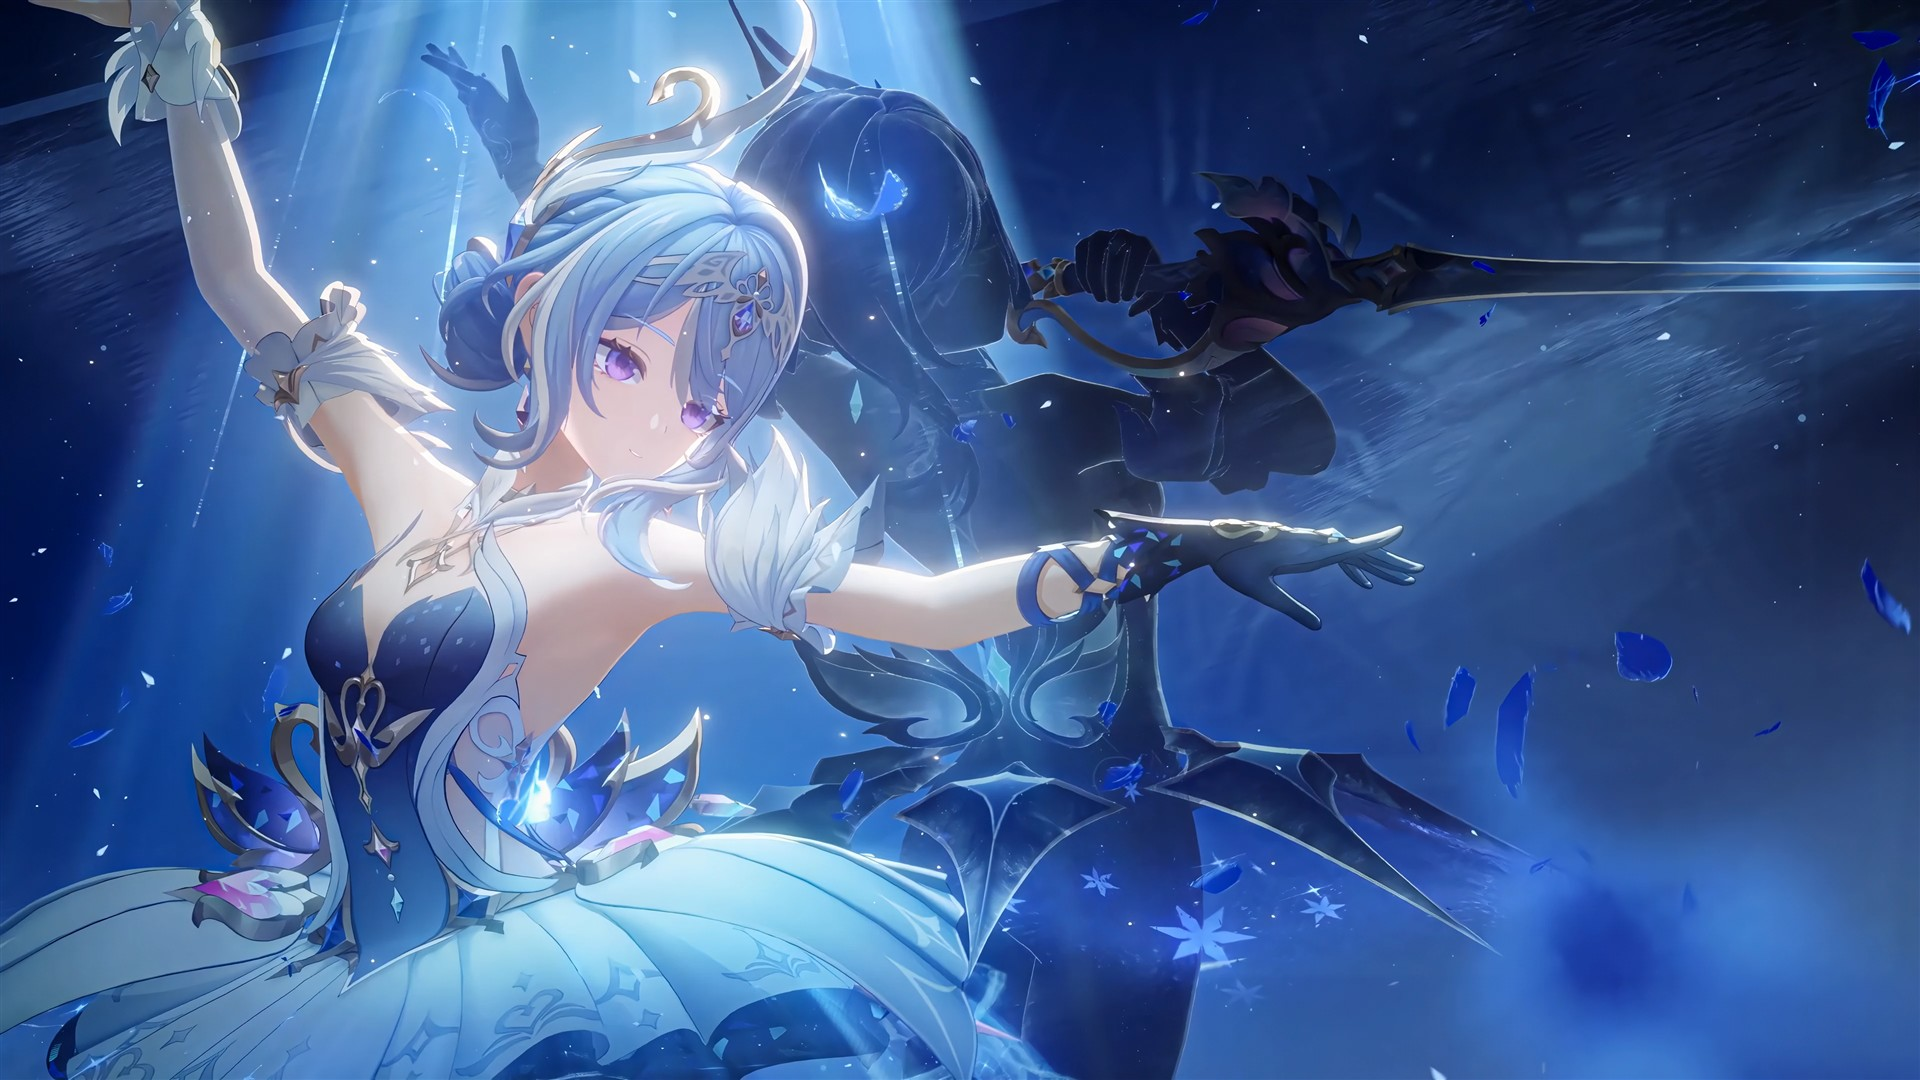
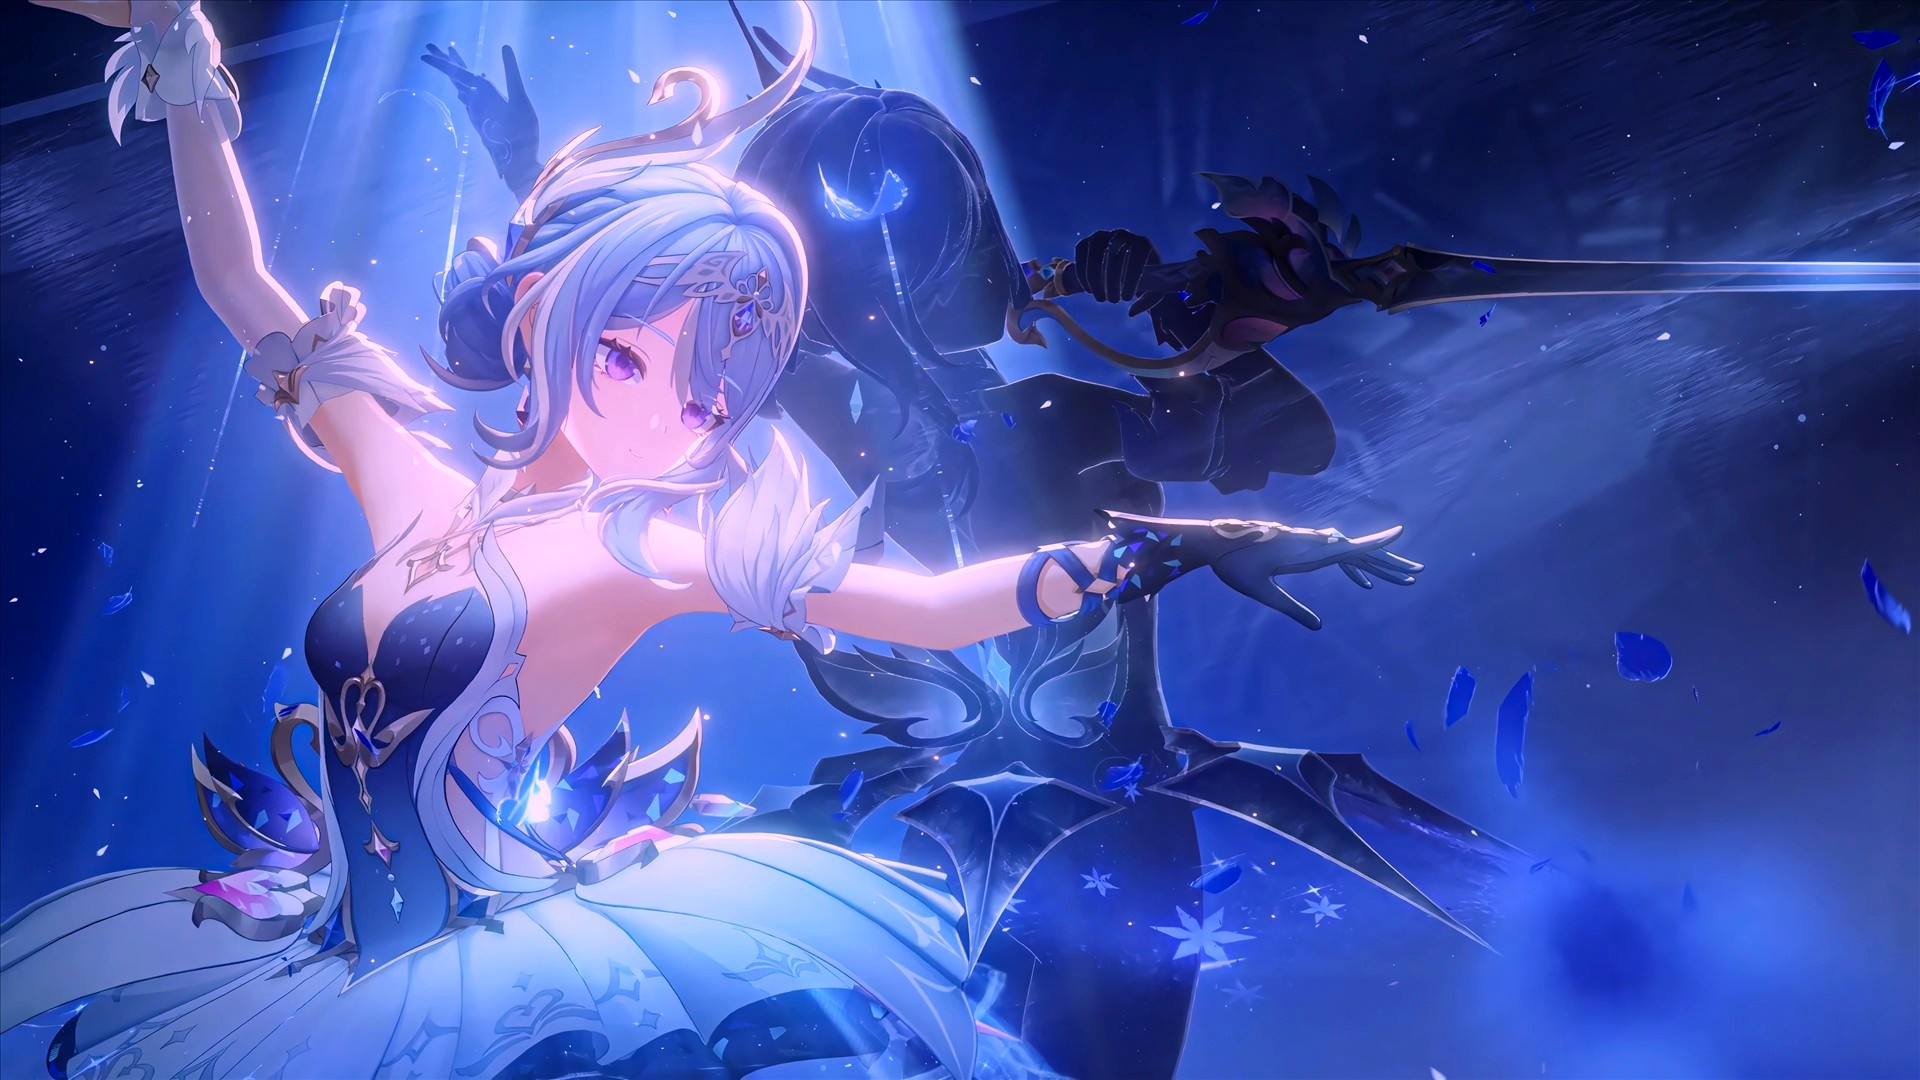
fix: 增强烘焙进图片文件（饱和+对比），移除 CSS filter 消除 README/皮肤色差；图片版本号 v=3 绕过缓存

diff --git a/src/client/index.ts b/src/client/index.ts
@@ -43,8 +43,8 @@ export const inject = ['theme', 'slots']
 
 const SOURCE = '@dsh-external/dsh-odette-skin'
 const ASSET_BASE = location.origin + '/odette-skin'
-/** 图片资源版本号：每次更换图片时递增，绕过客户端/浏览器 HTTP 缓存（v0.1 时代 max-age=86400 的缓存坑） */
-const IMG_REV = '?v=2'
+/** 图片资源版本号：每次更换/处理图片时递增，绕过客户端/浏览器 HTTP 缓存（v0.1 时代 max-age=86400 的缓存坑） */
+const IMG_REV = '?v=3'
 const SKIN_KEY = 'dsh-odette-skin:enabled'
 
 /* ============================ 主题色板 ============================ */
@@ -124,13 +124,9 @@ function syncSkin(): void {
 
 function applyBackground(scheme: 'light' | 'dark'): void {
   const img = scheme === 'light' ? 'bg-light.jpg' : 'bg-dark.jpg'
-  // 浅色底图偏淡：伪元素层 + CSS filter 提对比/饱和，让背景在浅色 UI 下也能看清
-  const filter = scheme === 'light'
-    ? 'contrast(1.24) saturate(1.42)'
-    : 'contrast(1.06) saturate(1.12)'
+  // 增强已烘焙进图片文件本身（饱和+对比），无需 CSS filter——README 预览与皮肤显示完全一致，不再有色差
   const css = 'body::before{content:"";position:fixed;inset:0;z-index:-1;'
-    + 'background:url("' + ASSET_BASE + '/' + img + IMG_REV + '") center/cover no-repeat;'
-    + 'filter:' + filter + ';}'
+    + 'background:url("' + ASSET_BASE + '/' + img + IMG_REV + '") center/cover no-repeat;}'
   if (bgStyleEl) bgStyleEl.remove()
   bgStyleEl = injectStyle('odette-skin:bg', css)
 }
